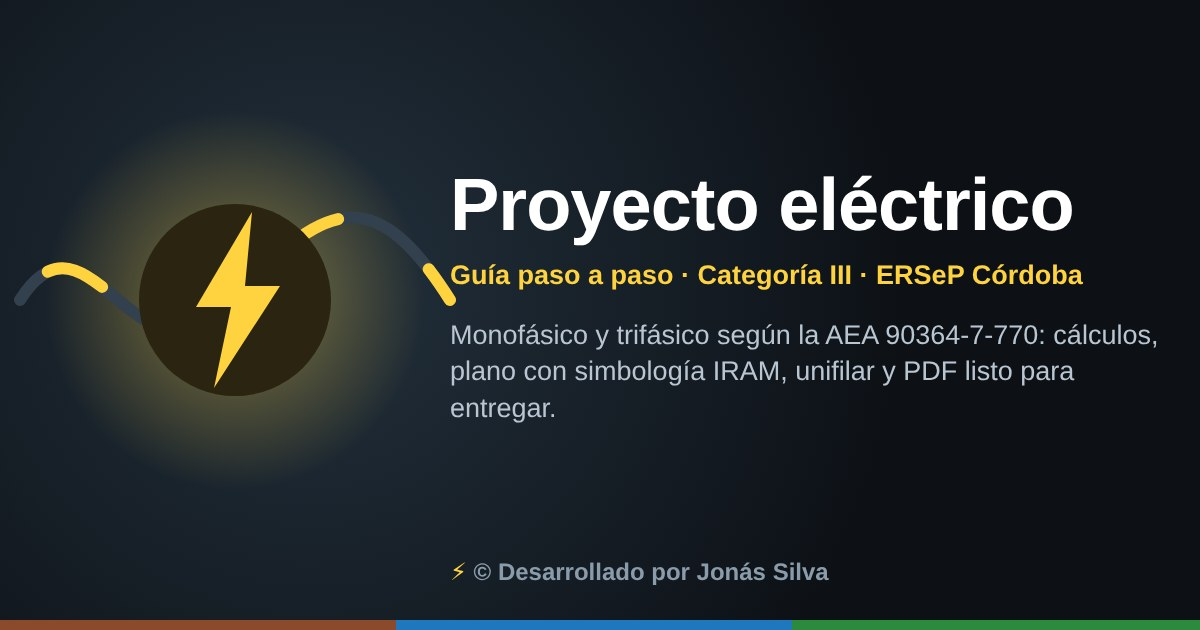
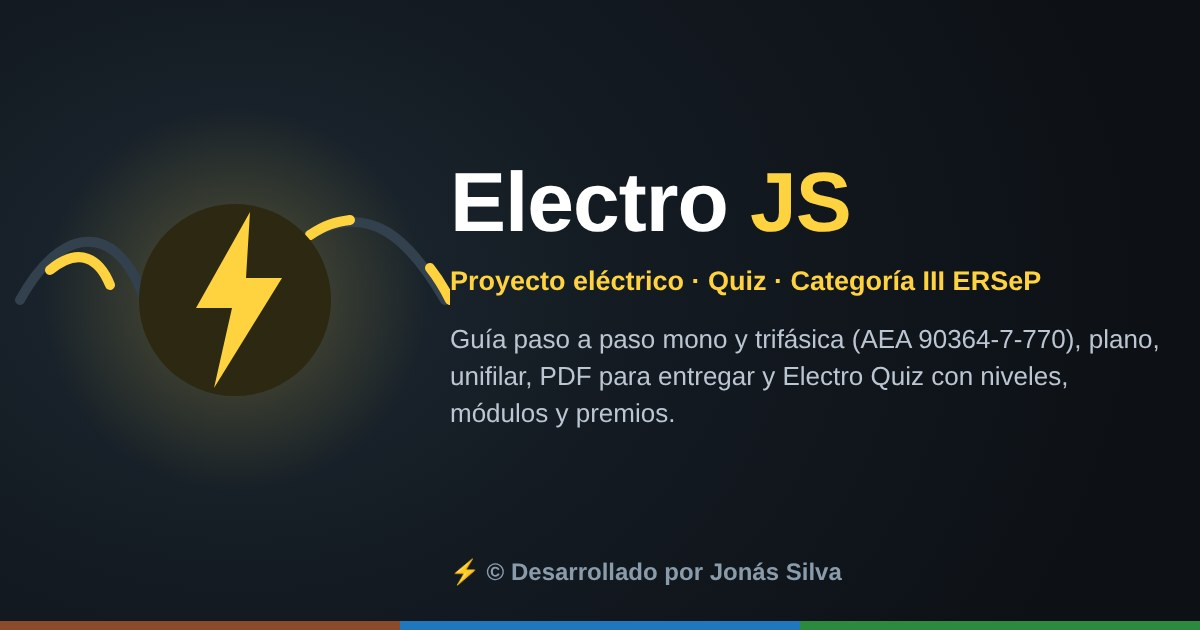
Add files via upload

diff --git a/quiz.html b/quiz.html
@@ -248,6 +248,60 @@ li.k.n{border-left-color:#c58bff}li.k.n .kt{color:#c58bff}
 @keyframes bdot{70%{box-shadow:0 0 0 8px rgba(255,93,93,0)}100%{box-shadow:0 0 0 0 rgba(255,93,93,0)}}
 .cb{border-color:var(--tc,#f5b301)!important;box-shadow:0 0 18px color-mix(in srgb,var(--tc,#f5b301) 45%,transparent)!important}.cbt{display:flex;flex-direction:column;text-align:left}.cbt small{font-size:10px;font-weight:700;letter-spacing:.06em;text-transform:uppercase;color:var(--tc,#f5b301)}
 @media(prefers-reduced-motion:reduce){.bd.on::after,.bd.on .e,.bnew,.bdot{animation:none}}
+
+.qcalc{text-align:center;color:var(--acc);font-size:12.5px;margin-top:12px}
+#calcFab{position:fixed;right:16px;bottom:84px;z-index:60;width:62px;height:62px;border-radius:50%;border:0;cursor:pointer;background:radial-gradient(circle at 35% 30%,#2a2f3a,#0f1115);box-shadow:0 6px 18px rgba(0,0,0,.35),0 0 0 2px #f5b301,0 0 18px rgba(245,179,1,.45);display:none;place-items:center;padding:0;transition:transform .2s}
+#calcFab.on{display:grid;animation:fabIn .55s cubic-bezier(.2,1.6,.4,1)}#calcFab:not(.hot){width:50px;height:50px;opacity:.85;box-shadow:0 4px 12px rgba(0,0,0,.3),0 0 0 1.5px #f5b301}#calcFab:not(.hot) svg{width:27px;height:27px}#calcFab.on.hot{animation:fabIn .55s cubic-bezier(.2,1.6,.4,1),fabGlow 2.6s 1s infinite}
+#calcFab svg{width:34px;height:34px}#calcFab circle{fill:none;stroke:#f5b301;stroke-width:1.2}#calcFab path{fill:#ffd23f;animation:zap 2.6s infinite}
+#calcFab span{position:absolute;right:-4px;bottom:-4px;background:#f5b301;color:#111;font:800 11px/1 system-ui;padding:4px 5px;border-radius:999px;box-shadow:0 2px 6px rgba(0,0,0,.3)}
+#calcFab.open{transform:rotate(-12deg) scale(.92)}
+#calcFab:active{transform:scale(.9)}
+@keyframes fabIn{0%{transform:scale(0) rotate(-90deg);opacity:0}100%{transform:none;opacity:1}}
+@keyframes fabGlow{0%,60%,100%{box-shadow:0 6px 18px rgba(0,0,0,.35),0 0 0 2px #f5b301,0 0 18px rgba(245,179,1,.45)}65%{box-shadow:0 6px 18px rgba(0,0,0,.35),0 0 0 3px #ffd23f,0 0 32px rgba(255,210,63,.9)}}
+#calcBox{position:fixed;right:12px;bottom:156px;z-index:61;width:min(300px,calc(100vw - 24px));background:#12151b;color:#eef1f4;border:1px solid #f5b301;border-radius:20px;padding:12px;box-shadow:0 18px 40px rgba(0,0,0,.5),0 0 24px rgba(245,179,1,.25);transform-origin:calc(100% - 30px) calc(100% + 40px);animation:calcIn .35s cubic-bezier(.2,1.3,.4,1)}
+#calcBox.out{animation:calcOut .22s ease-in forwards}
+@keyframes calcIn{from{transform:scale(.2);opacity:0}}@keyframes calcOut{to{transform:scale(.2);opacity:0}}
+#calcBox .ch{display:flex;align-items:center;gap:8px;margin-bottom:8px;cursor:grab;touch-action:none;user-select:none}#calcBox .ch .grip{width:34px;height:4px;border-radius:2px;background:#2c323d;margin:0 auto}
+#calcBox .ch svg{width:24px;height:24px}#calcBox .ch circle{fill:none;stroke:#f5b301;stroke-width:1.3}#calcBox .ch path{fill:#ffd23f;animation:zap 2.6s infinite}
+#calcBox .ch b{font-size:15px;letter-spacing:.02em}#calcBox .ch b i{font-style:normal;color:#f5b301}
+#calcBox .cx{margin-left:auto;background:#1e232c;border:1px solid #2c323d;color:#9aa3b2;width:30px;height:30px;border-radius:50%;cursor:pointer;font-size:13px}
+#calcBox .cd{background:#0b0d11;border:1px solid #232833;border-radius:14px;padding:10px 12px;text-align:right;margin-bottom:10px;overflow:hidden;position:relative}
+#calcBox .ce{min-height:18px;font-size:13px;color:#8a93a3;white-space:nowrap;overflow:hidden;text-overflow:ellipsis}
+#calcBox .cr{font:700 30px/1.25 system-ui,sans-serif;color:#fff;white-space:nowrap;overflow-x:auto;scrollbar-width:none}#calcBox .cr.sm{font-size:21px}
+#calcBox.zap .cd{animation:cdZap .6s ease-out}#calcBox.zap .cr{animation:crZap .6s ease-out}
+@keyframes cdZap{0%{box-shadow:inset 0 0 0 1px #f5b301,0 0 0 rgba(245,179,1,0)}30%{box-shadow:inset 0 0 0 2px #ffd23f,0 0 22px rgba(255,210,63,.7)}100%{box-shadow:none}}
+@keyframes crZap{0%{color:#fff}25%{color:#ffd23f;text-shadow:0 0 12px #f5b301}100%{color:#fff;text-shadow:none}}
+#calcBox.shake{animation:cshake .35s}@keyframes cshake{25%{transform:translateX(-6px)}50%{transform:translateX(5px)}75%{transform:translateX(-3px)}}
+#calcBox .ck{display:grid;grid-template-columns:repeat(4,1fr);gap:7px}
+#calcBox .ck button{position:relative;overflow:hidden;height:48px;border-radius:13px;border:1px solid #262b35;background:#1b1f27;color:#eef1f4;font:600 20px system-ui,sans-serif;cursor:pointer;transition:transform .08s}
+#calcBox .ck button:active{transform:scale(.92)}
+#calcBox .ck .k-o{color:#ffd23f;background:#221f14;border-color:#3a3218}
+#calcBox .ck .k-c{color:#9aa3b2;font-size:15px}
+#calcBox .ck .k-eq{background:linear-gradient(135deg,#ffd23f,#f5b301);color:#111;border:0;font-weight:800}
+#calcBox .ck button.hit::after{content:"";position:absolute;inset:0;background:radial-gradient(circle,rgba(255,210,63,.55),transparent 65%);animation:khit .4s ease-out forwards}
+@keyframes khit{from{opacity:1;transform:scale(.3)}to{opacity:0;transform:scale(1.6)}}
+@media(prefers-reduced-motion:reduce){#calcFab.on,#calcBox,#calcBox.zap .cd,#calcBox.zap .cr,#calcFab path,#calcBox .ch path{animation:none}}
+
+.trib{display:flex;gap:12px;align-items:center;background:var(--card);border:1px solid var(--line);border-left:3px solid var(--acc);border-radius:var(--r);padding:10px 12px;margin:4px 0 14px;animation:tribIn .5s ease both}
+@keyframes tribIn{from{opacity:0;transform:translateY(8px)}}
+.tri{width:118px;flex:none;overflow:visible}
+.tri-o{fill:color-mix(in srgb,var(--acc) 10%,transparent);stroke:var(--acc);stroke-width:3;stroke-linejoin:round;stroke-dasharray:420;stroke-dashoffset:420;animation:triDraw .9s .1s ease-out forwards}
+.tri-m{stroke:var(--acc);stroke-width:2.2;stroke-dasharray:110;stroke-dashoffset:110;animation:triDraw .5s .8s ease-out forwards}
+@keyframes triDraw{to{stroke-dashoffset:0}}
+.tl{font:800 30px system-ui,sans-serif;fill:var(--txt);text-anchor:middle;opacity:0;animation:tlIn .35s 1s ease forwards}
+.tl.cov{fill:var(--acc)}
+.tk{font:700 15px system-ui,sans-serif;fill:var(--acc);text-anchor:middle;opacity:0;animation:tlIn .35s 1.1s ease forwards}
+@keyframes tlIn{to{opacity:1}}
+.fing{opacity:0;transform-box:fill-box;transform-origin:center;animation:fing 2.8s 1.4s ease-in-out infinite}
+.fing circle{fill:var(--acc);opacity:.92;filter:drop-shadow(0 0 6px rgba(245,179,1,.7))}
+.fing text{font-size:18px;text-anchor:middle}
+@keyframes fing{0%{opacity:0;transform:scale(.4)}12%{opacity:1;transform:scale(1)}70%{opacity:1;transform:scale(1)}100%{opacity:0;transform:scale(1)}}
+.trit{flex:1;min-width:0}
+.trit small{display:block;font-size:11px;font-weight:700;color:var(--acc);text-transform:uppercase;letter-spacing:.04em;margin-bottom:3px}
+.trit p{font-size:13px;color:var(--mut);margin:0}
+.trif{font:800 21px system-ui,sans-serif;color:var(--txt);margin:3px 0;opacity:0;animation:tlIn .4s 1.6s ease forwards}
+.trit em{display:block;font-style:normal;font-size:11px;color:var(--mut)}
+@media(prefers-reduced-motion:reduce){.trib,.tri-o,.tri-m,.tl,.tk,.trif{animation:none;opacity:1;stroke-dashoffset:0}.fing{animation:none;opacity:1}}
 </style>
 </head>
 <body>
@@ -455,7 +509,7 @@ let LMODE = "in", LFORM = false;
 /* --- candado de la app principal: la misma huella abre Proyecto y Quiz --- */
 const GATED = () => { try { return window.parent !== window && !!window.parent.__gating; } catch(_){ return false; } };
 const introOn = () => { try { const i = window.parent.document.getElementById("intro"); return !!(i && !i.hidden); } catch(_){ return false; } };
-const loginTitle = () => GATED() ? `Proyecto <span style="color:var(--acc)">Eléctrico</span>` : `Electro <span style="color:var(--acc)">Quiz</span>`;
+const loginTitle = () => GATED() ? `Electro <span style="color:var(--acc)">JS</span>` : `Electro <span style="color:var(--acc)">Quiz</span>`;
 window.__gateGo = () => { if(document.getElementById("go") && knownName() && !LFORM && LMODE==="in" && webauthnOK()) doLoginSrv(); };
 function rememberCred(name, rawId, rpId){ try{ localStorage.setItem("electro_cred", JSON.stringify({name, id:b64u(rawId), rpId: rpId || location.hostname})); }catch(_){} }
 async function offlineLogin(name){
@@ -607,6 +661,7 @@ function ranking(){
     .sort((a,b)=>b.pts-a.pts || b.st-a.st || a.n.localeCompare(b.n));
 }
 function setNav(id){
+  calcFab(false);
   clearTimeout(readT); readSave(); CURMOD = null;
   $("#nav").style.display = id ? "block" : "none";
   document.querySelectorAll("#nav button").forEach(b => b.classList.toggle("on", b.id === "n-"+id));
@@ -905,10 +960,13 @@ function screenQuestion(){
   <div class="bar"><div style="width:${(S.i/S.qs.length)*100}%"></div></div>
   <div class="qhead"><span>Racha: ${S.streak} 🔥</span><span>${S.mode==="rev"?"Sin puntos":S.score+" pts"}</span></div>
   <h2 class="q">${esc(q.q)}</h2>
+  ${(()=>{ const r = triFor(q); return r ? triHTML(r) : ""; })()}
   <div id="opts">${q.opts.map((o,i)=>`<button class="opt" onclick="answer(${i})">${esc(o.t)}</button>`).join("")}</div>
   <div id="fb"></div>
+  ${needsCalc(q)?`<p class="qcalc">🧮 Este ejercicio se resuelve con cuentas: tenés la calculadora abajo a la derecha.</p>`:""}
   ${keep?`<p class="qsave">💾 Tu avance se guarda solo en cada respuesta</p>`:""}`;
   window.scrollTo(0,0);
+  calcFab(true, needsCalc(q));
 }
 function answer(i){
   if(S.done) return;
@@ -1473,6 +1531,157 @@ document.getElementById("nav").addEventListener("click", e=>{
   S=null;
 }, true);
 
+
+/* ---------- CALCULADORA flotante para ejercicios con cuentas ---------- */
+const CALC_LV = ["4","5","6","7"];
+function needsCalc(q){
+  if(S && S.mode==="lv" && CALC_LV.includes(String(S.id))) return true;
+  if(S && CALC_LV.includes(String(q.lv))) return true;
+  const t = String(q.q), n = (t.match(/\d+(?:[.,]\d+)?/g)||[]).length;
+  const right = ((q.opts||[]).find(o=>o.ok)||{t:""}).t.trim();
+  const ansNum = /^[~≈]?\s*(aprox\w*\s*)?[$]?\s*\d/i.test(right) || /^(Aproximadamente|Unos?)\s+\d/i.test(right);
+  const ask = /calcul|porcentaje|redonde|cuánt|resulta|se suman|sumando|suma|total|regla de tres|¿(qué|cuál)[^?]{0,45}(corriente|potencia|tensión|resistencia|caída|sección|valor|porcentaje|frecuencia|superficie|área|consumo|energía|costo|IB|I\(B\)|DPMS|S total)/i;
+  if(n>=2 && ask.test(t) && ansNum) return true;
+  if(n>=1 && ansNum && ask.test(t) && /\d\s*(V|A|W|kW|kWh|VA|Hp|Ω|ohm|m2|m²|mm2|mm²|m|%|kg|\$)\b/i.test(t)) return true;
+  return n>=2 && /calcul|regla de tres|se suman|cuánto (da|vale|resulta|consume|sale)/i.test(t);
+}
+const CALC = {expr:"", res:"", ans:null};
+function calcFab(on, hot){
+  let f = document.getElementById("calcFab");
+  if(!on){ if(f) f.classList.remove("on"); calcClose(); return; }
+  if(!f){
+    f = document.createElement("button"); f.id = "calcFab"; f.setAttribute("aria-label","Abrir calculadora");
+    f.innerHTML = `<svg viewBox="0 0 24 24"><circle cx="12" cy="12" r="10.2"/><path d="M13.4 4.6 7.9 13h3.8l-1.3 6.4 5.6-8.6h-3.8z"/></svg><span>÷×</span>`;
+    f.onclick = () => document.getElementById("calcBox") ? calcClose() : calcOpen();
+    document.body.appendChild(f);
+  }
+  const was = f.classList.contains("on") && f.classList.contains("hot") === !!hot;
+  f.classList.toggle("hot", !!hot);
+  if(!was){ f.classList.remove("on"); void f.offsetWidth; f.classList.add("on"); }
+}
+function calcOpen(){
+  if(document.getElementById("calcBox")) return;
+  const keys = [["C","k-c"],["⌫","k-c"],["%","k-o"],["÷","k-o"],["7"],["8"],["9"],["×","k-o"],["4"],["5"],["6"],["−","k-o"],["1"],["2"],["3"],["+","k-o"],["ANS","k-c"],["0"],[",",""],["=","k-eq"]];
+  const b = document.createElement("div"); b.id = "calcBox";
+  b.innerHTML = `<div class="ch"><svg viewBox="0 0 24 24"><circle cx="12" cy="12" r="10.2"/><path d="M13.4 4.6 7.9 13h3.8l-1.3 6.4 5.6-8.6h-3.8z"/></svg><b>Calcu<i>lectro</i></b><span class="grip"></span><button class="cx" aria-label="Cerrar">✕</button></div>
+    <div class="cd"><div class="ce" id="cE"></div><div class="cr" id="cR">0</div></div>
+    <div class="ck">${keys.map(([k,c])=>`<button class="${c||""}" data-k="${k}">${k}</button>`).join("")}</div>`;
+  document.body.appendChild(b);
+  b.querySelector(".cx").onclick = calcClose;
+  const h = b.querySelector(".ch"); let d = null;
+  h.addEventListener("pointerdown", e => { if(e.target.closest(".cx")) return; const r = b.getBoundingClientRect(); d = {x:e.clientX-r.left, y:e.clientY-r.top}; h.setPointerCapture(e.pointerId); });
+  h.addEventListener("pointermove", e => { if(!d) return; const W = b.offsetWidth, H = b.offsetHeight;
+    b.style.left = Math.max(4, Math.min(innerWidth-W-4, e.clientX-d.x))+"px"; b.style.top = Math.max(4, Math.min(innerHeight-H-4, e.clientY-d.y))+"px"; b.style.right = "auto"; b.style.bottom = "auto"; });
+  h.addEventListener("pointerup", () => { d = null; });
+  b.querySelectorAll(".ck button").forEach(x => x.addEventListener("click", e => { calcPress(x.dataset.k); x.classList.remove("hit"); void x.offsetWidth; x.classList.add("hit"); }));
+  document.getElementById("calcFab").classList.add("open");
+  calcShow();
+}
+function calcClose(){
+  const b = document.getElementById("calcBox"); if(!b) return;
+  b.classList.add("out"); setTimeout(()=>b.remove(), 220);
+  const f = document.getElementById("calcFab"); if(f) f.classList.remove("open");
+}
+const calcOps = "+−×÷";
+function calcPress(k){
+  let e = CALC.expr;
+  if(k==="C"){ CALC.expr=""; CALC.res=""; return calcShow(); }
+  if(k==="⌫"){ CALC.expr = e.slice(0,-1); CALC.res=""; return calcShow(); }
+  if(k==="="){
+    const r = calcEval(e);
+    if(r===null){ calcShake(); return; }
+    CALC.res = calcFmt(r); CALC.ans = r; CALC.done = true; calcShow(true); return;
+  }
+  if(CALC.done){ CALC.done = false; if(!calcOps.includes(k) && k!=="%") e = ""; else e = String(CALC.ans).replace(".",","); CALC.res = ""; }
+  if(k==="ANS"){ if(CALC.ans===null) return; k = String(+CALC.ans.toFixed(10)).replace(".",","); }
+  if(calcOps.includes(k)){
+    if(!e && k!=="−") return;
+    if(calcOps.includes(e.slice(-1))) e = e.slice(0,-1);
+  }
+  if(k===","){ const last = e.split(/[+−×÷]/).pop(); if(last.includes(",")) return; if(!last) k = "0,"; }
+  if(k==="%" && (!e || calcOps.includes(e.slice(-1)) || e.slice(-1)==="%")) return;
+  CALC.expr = e + k; CALC.res = ""; calcShow();
+}
+function calcEval(e){
+  if(!e) return null;
+  const t = e.match(/\d+(?:,\d*)?%?|[+−×÷]/g); if(!t || t.join("")!==e) return null;
+  const vals = [], ops = [];
+  const prec = o => (o==="×"||o==="÷") ? 2 : 1;
+  const apply = () => { const o = ops.pop(), b = vals.pop(), a = vals.pop(); if(a===undefined||b===undefined) throw 0;
+    vals.push(o==="+"?a+b : o==="−"?a-b : o==="×"?a*b : a/b); };
+  try {
+    let expectNum = true, neg = false;
+    for(const x of t){
+      if(expectNum){
+        if(x==="−"){ neg = !neg; continue; }
+        if(calcOps.includes(x)) return null;
+        let v = parseFloat(x.replace(",",".").replace("%","")); if(x.endsWith("%")) v /= 100;
+        vals.push(neg ? -v : v); neg = false; expectNum = false;
+      } else {
+        while(ops.length && prec(ops[ops.length-1]) >= prec(x)) apply();
+        ops.push(x); expectNum = true;
+      }
+    }
+    if(expectNum) return null;
+    while(ops.length) apply();
+  } catch(_){ return null; }
+  const r = vals[0]; return isFinite(r) ? r : null;
+}
+function calcFmt(r){
+  const v = Math.round(r*1e6)/1e6;
+  const [i, d] = String(Math.abs(v)).split(".");
+  return (v<0?"−":"") + i.replace(/\B(?=(\d{3})+(?!\d))/g, ".") + (d ? ","+d : "");
+}
+function calcShow(eq){
+  const E = document.getElementById("cE"), Rr = document.getElementById("cR"); if(!E) return;
+  if(eq){ E.textContent = CALC.expr + " ="; Rr.textContent = CALC.res; const box = document.getElementById("calcBox"); box.classList.remove("zap"); void box.offsetWidth; box.classList.add("zap"); }
+  else { E.textContent = CALC.res ? "" : (CALC.ans!==null && !CALC.expr ? "ANS = "+calcFmt(CALC.ans) : ""); Rr.textContent = CALC.expr || "0"; }
+  Rr.classList.toggle("sm", Rr.textContent.length > 12);
+}
+function calcShake(){ const b = document.getElementById("calcBox"); if(!b) return; b.classList.remove("shake"); void b.offsetWidth; b.classList.add("shake"); }
+
+function triFor(q){
+  const t = String(q.q), right = ((q.opts||[]).find(o=>o.ok)||{t:""}).t;
+  if(/(cos\s*(φ|phi|fi)|coseno de phi|coseno)[^.?]{0,20}\d/i.test(t)) return null;
+  const m = right.match(/^[^\d]{0,20}?[\d.,]+\s*(kVA|VA|kW|W|mA|A|V|Ω|ohm)(?![a-zA-Z])/i);
+  const tgt = m ? ({kva:"S", va:"S", kw:"P", w:"P", ma:"I", a:"I", v:"V", "ω":"R", ohm:"R"})[m[1].toLowerCase()] : null;
+  if(!tgt) return null;
+  const has = {V:/\d\s*V(?![A-Za-z])/.test(t), I:/\d\s*m?A(?![A-Za-z])/.test(t), R:/\d\s*(Ω|ohm)/i.test(t), P:/\d\s*k?W(?![A-Za-z])/.test(t), S:/\d\s*k?VA(?![A-Za-z])/.test(t)};
+  const two = keys => keys.filter(k=>k!==tgt && has[k]).length >= 2;
+  if(["V","I","R"].includes(tgt) && two(["V","I","R"]) && (has.R || tgt==="R")) return {k:"ohm", t:tgt};
+  const tri = /trifás|1,73|√3|380\s*V/i.test(t);
+  if(["S","V","I"].includes(tgt) && two(["S","V","I"])) return {k: tri?"s3":"s1", t:tgt};
+  if(["P","V","I"].includes(tgt) && two(["P","V","I"])) return {k: tri?"s3":"p", t: tri&&tgt==="P"?"S":tgt};
+  return null;
+}
+
+
+const TRIS = {
+  ohm:{n:"Triángulo de la Ley de Ohm", top:"V", bot:["I","R"], f:{V:"V = I × R", I:"I = V ÷ R", R:"R = V ÷ I"}, u:{V:"Volt", I:"Ampere", R:"Ohm"}},
+  p:{n:"Triángulo de potencia", top:"P", bot:["V","I"], f:{P:"P = V × I", V:"V = P ÷ I", I:"I = P ÷ V"}, u:{P:"Watt", V:"Volt", I:"Ampere"}},
+  s1:{n:"Triángulo de potencia aparente · monofásica", top:"S", bot:["V","I"], f:{S:"S = V × I", V:"V = S ÷ I", I:"I = S ÷ V"}, u:{S:"VA", V:"Volt", I:"Ampere"}},
+  s3:{n:"Triángulo de potencia aparente · trifásica", top:"S", bot:["V","I"], k:"1,73", f:{S:"S = 1,73 × V × I", V:"V = S ÷ (I × 1,73)", I:"I = S ÷ (V × 1,73)"}, u:{S:"VA", V:"Volt", I:"Ampere"}}
+};
+function triHTML(r){
+  const T = TRIS[r.k], tg = r.t, cov = l => l===tg ? "cov" : "";
+  const bx = [62,118];
+  return `<div class="trib" style="--d:0s">
+    <svg class="tri" viewBox="0 0 180 ${T.k?172:150}" aria-hidden="true">
+      <path class="tri-o" d="M90 8 L172 142 H8 Z"/>
+      <path class="tri-m" d="M37 92 H143"/><path class="tri-m" d="M90 92 V142"/>
+      <text x="90" y="74" class="tl ${cov(T.top)}">${T.top}</text>
+      <text x="${bx[0]}" y="128" class="tl ${cov(T.bot[0])}">${T.bot[0]}</text>
+      <text x="${bx[1]}" y="128" class="tl ${cov(T.bot[1])}">${T.bot[1]}</text>
+      ${T.k?`<text x="90" y="166" class="tk">abajo × 1,73</text>`:""}
+      <g transform="translate(${tg===T.top?90:(tg===T.bot[0]?bx[0]:bx[1])} ${tg===T.top?64:118})"><g class="fing"><circle r="17"/><text y="6">☝</text></g></g>
+    </svg>
+    <div class="trit"><small>📐 ${T.n}</small>
+      <p>Buscás <b>${tg}</b> (${T.u[tg]}): tapala con el dedo y queda</p>
+      <div class="trif">${T.f[tg]}</div>
+      <em>Arriba ÷ abajo · los de abajo se multiplican</em></div>
+  </div>`;
+}
+
 /* ---------- SUBIR DE RANKING / RANGO: misma animación que los premios ---------- */
 function rankSnap(){ try{ const r = ranking(); return {pos: r.findIndex(x=>x.n===db.current)+1, n: r.length, title: titleFor(total(me()))}; }catch(_){ return null; } }
 function rankCheck(a){
@@ -1485,6 +1694,7 @@ function rankCheck(a){
 { const f0 = finish; finish = function(){ try{ const p=me(), d=new Date().toISOString().slice(0,10); if(!p.days.includes(d)) p.days.push(d); }catch(_){} const a = rankSnap(); const r = f0.apply(this, arguments); rankCheck(a); return r; }; }
 
 /* ============ INICIO ============ */
+if(!SRV){ try{ window.parent!==window && window.parent.__authed && window.parent.__authed(); }catch(_){} }
 if(db.current && db.players[db.current] && (!SRV || (SESS && SESS.name===db.current))){ screenHome(); if(SRV) pullAndMerge().then(()=>{ if(!S && document.querySelector('.hello h2')) screenHome(); }).catch(e=>{ if(e.status===401){ setSession(null); screenLogin(); } }); }
 else screenLogin();
 

diff --git a/index.html b/index.html
@@ -6,10 +6,10 @@
 <meta name="theme-color" content="#16191d">
 <meta name="description" content="Guía paso a paso para proyectos eléctricos de vivienda, Categoría III ERSeP Córdoba (AEA 90364-7-770). Monofásico y trifásico: cálculos, plano con simbología IRAM, unifilar y PDF listo para entregar.">
 <meta property="og:type" content="website">
-<meta property="og:site_name" content="Proyecto eléctrico">
+<meta property="og:site_name" content="Electro JS">
 <meta property="og:locale" content="es_AR">
-<meta property="og:title" content="Proyecto eléctrico · Guía paso a paso">
-<meta property="og:description" content="Categoría III · ERSeP Córdoba. Monofásico y trifásico: cálculos, plano, unifilar y PDF listo para entregar.">
+<meta property="og:title" content="Electro JS · Proyecto eléctrico y Quiz">
+<meta property="og:description" content="Categoría III · ERSeP Córdoba. Proyecto eléctrico mono y trifásico paso a paso, plano, unifilar, PDF y Electro Quiz.">
 <meta property="og:image" content="https://akkonjonas.github.io/Proyecto-el-ctrico-/og-image.jpg">
 <meta property="og:image:secure_url" content="https://akkonjonas.github.io/Proyecto-el-ctrico-/og-image.jpg">
 <meta property="og:url" content="https://akkonjonas.github.io/Proyecto-el-ctrico-/">
@@ -17,17 +17,19 @@
 <meta property="og:image:type" content="image/jpeg">
 <meta property="og:image:width" content="1200">
 <meta property="og:image:height" content="630">
-<meta property="og:image:alt" content="Proyecto eléctrico: guía paso a paso, Categoría III ERSeP Córdoba">
+<meta property="og:image:alt" content="Electro JS: proyecto eléctrico y quiz, Categoría III ERSeP Córdoba">
 <meta name="twitter:card" content="summary_large_image">
-<meta name="twitter:title" content="Proyecto eléctrico · Guía paso a paso">
+<meta name="twitter:title" content="Electro JS · Proyecto eléctrico y Quiz">
 <meta name="twitter:description" content="Categoría III · ERSeP Córdoba. Monofásico y trifásico: cálculos, plano, unifilar y PDF.">
 <meta name="twitter:image" content="https://akkonjonas.github.io/Proyecto-el-ctrico-/og-image.jpg">
 <link rel="manifest" href="manifest.webmanifest">
+<meta name="apple-mobile-web-app-title" content="Electro JS">
+<meta name="application-name" content="Electro JS">
 <script>try{var t=localStorage.getItem("tema");if(t)document.documentElement.setAttribute("data-theme",t)}catch(e){}</script>
 <script>window.addEventListener("beforeinstallprompt",e=>{e.preventDefault();window.__bip=e;document.dispatchEvent(new Event("bipready"))})</script>
 <link rel="icon" href="icon-192.png">
 <link rel="apple-touch-icon" href="icon-192.png">
-<title>Proyecto eléctrico paso a paso</title>
+<title>Electro JS</title>
 <link rel="artifact-thumbnail" href="og-image.jpg">
 <link rel="preconnect" href="https://fonts.googleapis.com">
 <link href="https://fonts.googleapis.com/css2?family=Barlow:wght@400;500;600&family=Barlow+Condensed:wght@500;600;700&display=swap" rel="stylesheet">
@@ -386,7 +388,7 @@ html{scroll-padding-top:72px}
  <svg viewBox="0 0 180 120" aria-hidden="true"><circle class="ih" cx="90" cy="60" r="38"/>
   <path class="iw" d="M6,60 C40,18 60,102 90,60 S140,18 174,60"/><path class="ic" d="M6,60 C40,18 60,102 90,60 S140,18 174,60"/><path class="ic b" d="M6,60 C40,18 60,102 90,60 S140,18 174,60"/>
   <path class="ib" d="M97,30 L76,65 L89,65 L82,93 L106,55 L93,55 Z"/></svg>
- <div class="it"><h1>Proyecto eléctrico</h1><p>Guía paso a paso · Categoría III · ERSeP Córdoba</p></div>
+ <div class="it"><h1>Electro <span style="color:#ffd23f">JS</span></h1><p>Proyecto eléctrico · Quiz · Categoría III · ERSeP Córdoba</p></div>
  <div class="cta" id="cta"></div>
  <p class="icp"><span class="ecp"><svg viewBox="0 0 24 24" aria-hidden="true"><path d="M13 2 4 14h7l-1 8 9-12h-7z"/></svg><span class="ecpt">© Desarrollado por Jonás Silva</span></span></p>
 </div>

diff --git a/sw.js b/sw.js
@@ -1,5 +1,5 @@
 // Proyecto eléctrico · service worker: funciona sin conexión
-const CACHE = 'proy-elec-v30';
+const CACHE = 'proy-elec-v33';
 const FILES = ['./', './index.html', './manifest.webmanifest', './icon-192.png', './icon-512.png', './unifilar-mono.png', './unifilar-tri.png', './quiz.html', './preguntas.js'];
 self.addEventListener('install', e => {
   e.waitUntil(caches.open(CACHE).then(c => c.addAll(FILES)).then(() => self.skipWaiting()));

diff --git a/README.md b/README.md
@@ -1,4 +1,4 @@
-# Proyecto eléctrico paso a paso
+# Electro JS
 
 App web instalable (PWA) con la guía de proyecto eléctrico del curso Categoría III (ERSeP Córdoba, AEA 90364-7-770): 19 pasos con calculadoras, planilla de PMU, editor de plano con simbología IRAM 2010, PDF del proyecto para entregar y base de clientes.
 
